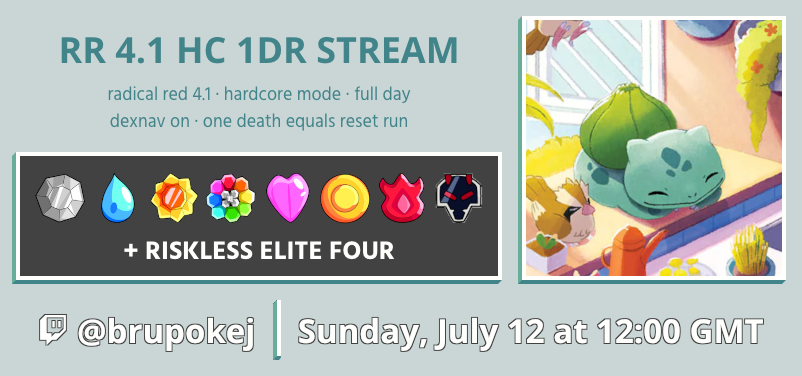
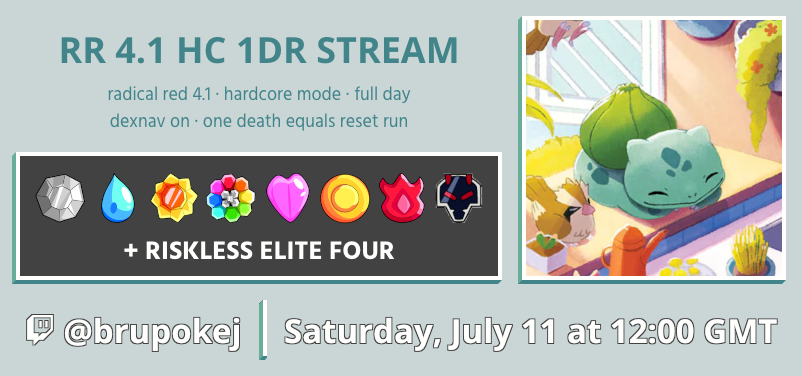
update announcement

Changed region(s): [[0.0312, 0.7899, 0.9663, 0.9654]]

diff --git a/site/src/pages/announcement.tsx b/site/src/pages/announcement.tsx
@@ -252,7 +252,7 @@ export default function Announcement(): ReactNode {
           <div className="poster-banner-section">
             <img width={8} src={barSrc} alt="" />
             &nbsp;&nbsp;
-            <span className="poster-shadow">Sunday, July 12 at 12:00 GMT</span>
+            <span className="poster-shadow">Saturday, July 11 at 12:00 GMT</span>
           </div>
         </div>
       </div>
